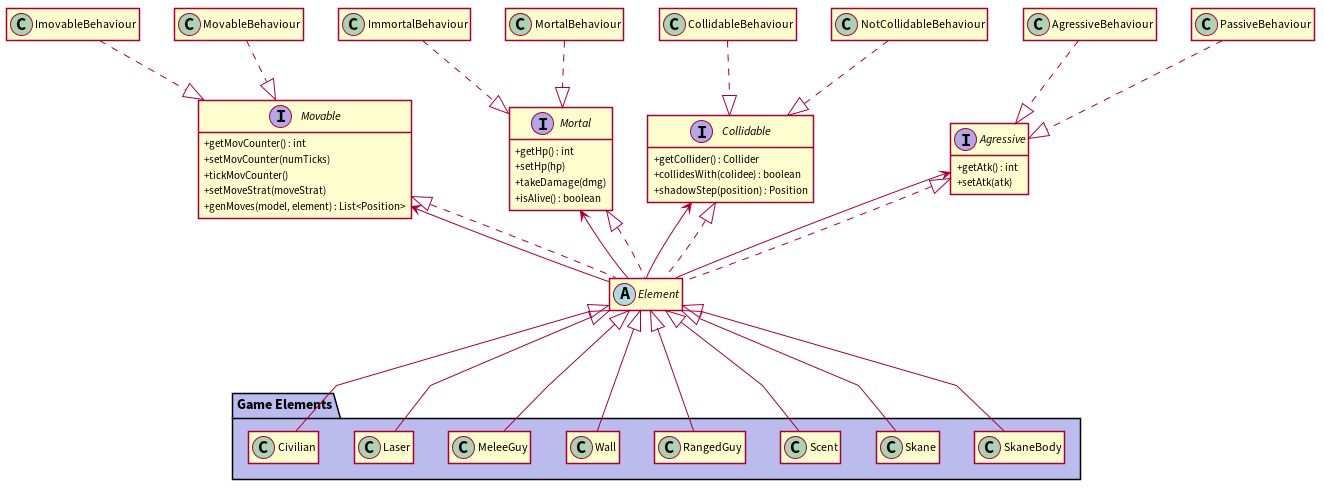
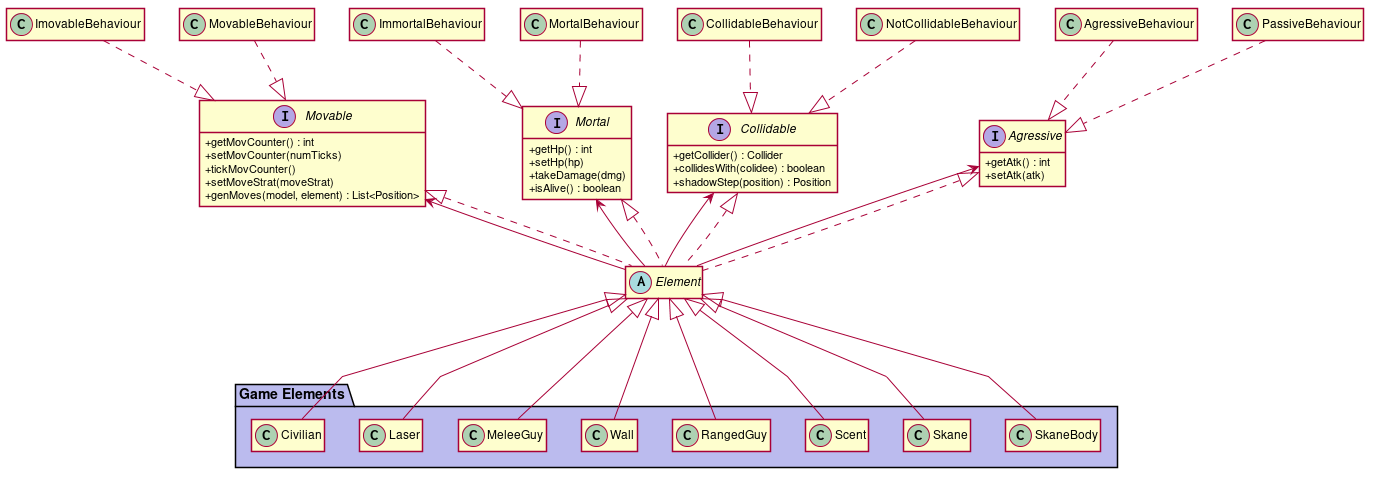
Added uml for observer pattern (collider) to report

diff --git a/docs/README.md b/docs/README.md
@@ -480,7 +480,7 @@ The following changes were made to make use of the pattern:
   When a collider is notified that it has changed to a position, it updates its
   position accordingly.
 
-# TODO UML HERE
+![The observer pattern in Element and Collider](/docs/uml/collider_observe.png)
 
 #### Consequences
 
